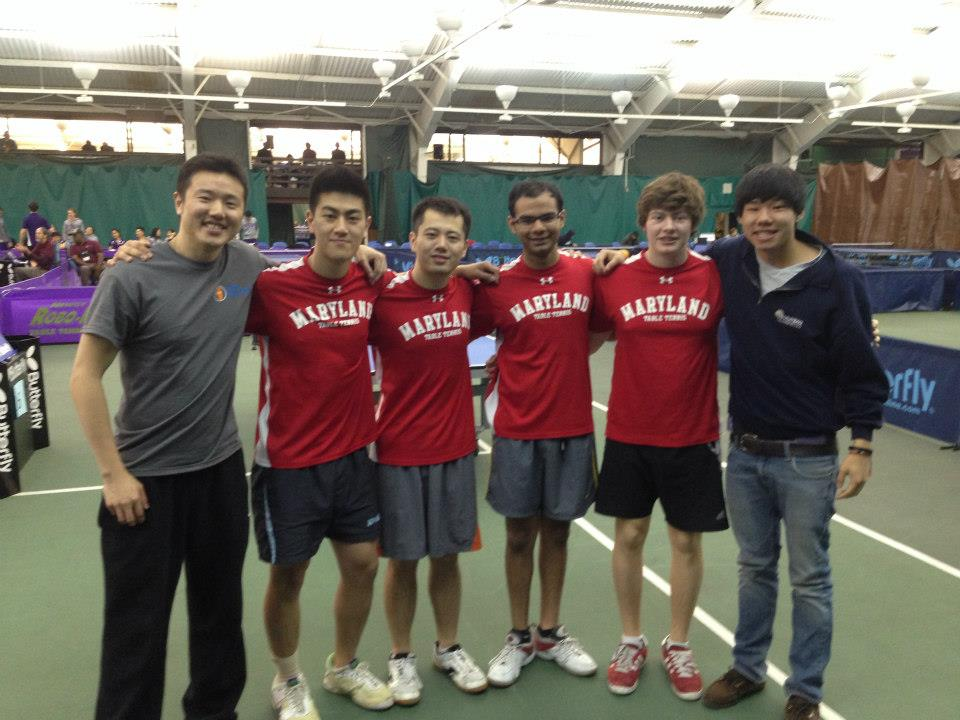
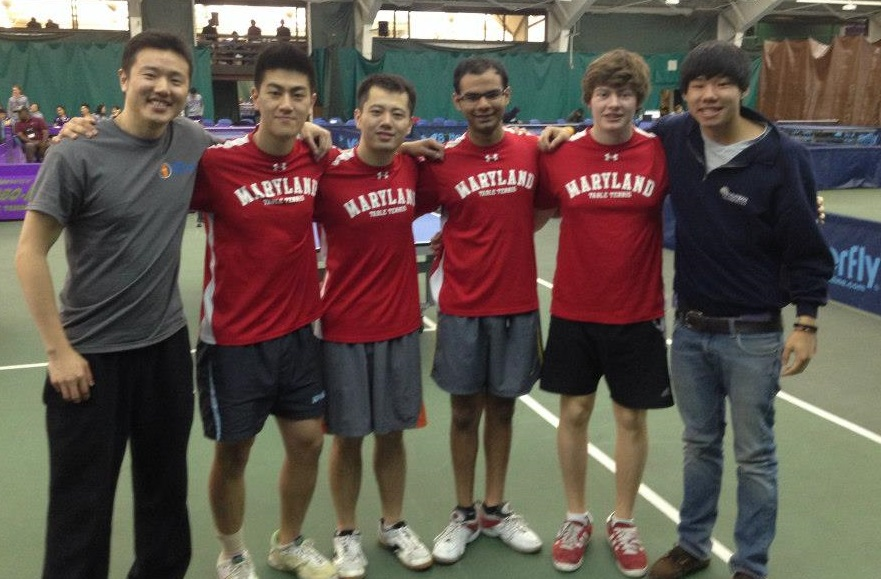
changed image size

diff --git a/index.html b/index.html
@@ -45,7 +45,7 @@
             <h3>
               <a name="Welcome" class="anchor" href="#site-welcome"><span class="octicon octicon-link"></span></a>Welcome to the UMD Table Tennis Club homepage</h3>
 
-  <img src="https://raw.github.com/vikashsahu/umd-pong/gh-pages/images/nick_profile.jpg">
+  <img src="https://raw.github.com/vikashsahu/umd-pong/gh-pages/images/natsteam3.jpg">
 <!--
 <pre><code>$ cd your_repo_root/repo_name
 $ git fetch origin
